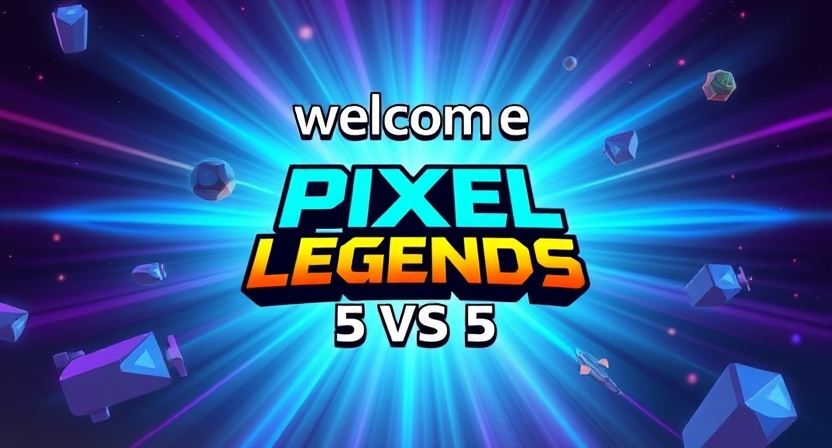
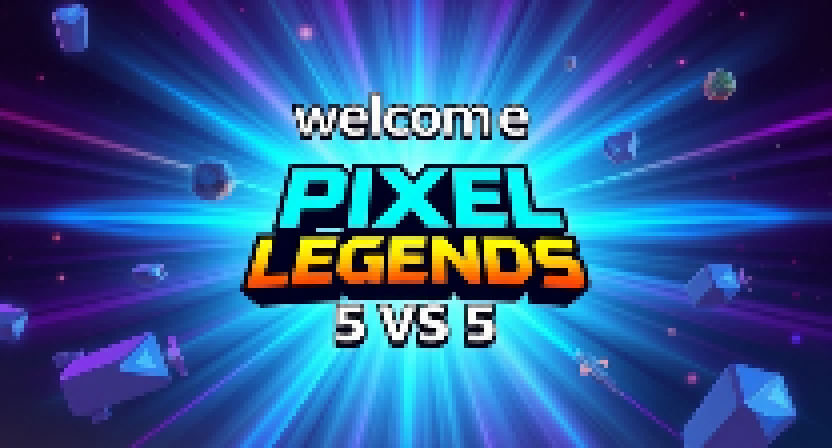
more pixels and null check error text fields

diff --git a/lib/UI/components/text_input_component.dart b/lib/UI/components/text_input_component.dart
@@ -1,0 +1,54 @@
+import 'dart:async';
+
+import 'package:flame/components.dart';
+import 'package:flame/events.dart';
+import 'package:flame/flame.dart';
+import 'package:flutter/material.dart';
+import 'package:pixel_legends_5_vs_5/UI/components/assets.dart';
+import 'package:pixel_legends_5_vs_5/utils/keyboard_utils.dart';
+import 'package:pixel_legends_5_vs_5/utils/static_params.dart';
+
+class TextInputComponent extends PositionComponent with TapCallbacks {
+  TextInputComponent({
+    required Vector2 position,
+    required this.label,
+  }) : super(
+          position: position,
+          size: Vector2(200, 50),
+        );
+
+  final String label;
+
+  @override
+  void onTapUp(TapUpEvent event) {
+    final keyboardUtils = KeyboardUtils(context!);
+    keyboardUtils.openKeyboard();
+    super.onTapUp(event);
+  }
+
+  @override
+  FutureOr<void> onLoad() async {
+    final inputBgImage = await Flame.images.load(inputBg.path);
+    final inputBgSprite = SpriteComponent.fromImage(
+      inputBgImage,
+      size: Vector2(200, 50),
+      position: position,
+    );
+
+    final textBox = TextBoxComponent(
+      text: label,
+      textRenderer: TextPaint(
+        style: const TextStyle(
+          color: Colors.black,
+          fontSize: 17,
+        ),
+      ),
+      size: Vector2(170, 50),
+      position: Vector2(15, 7),
+    );
+
+    inputBgSprite.add(textBox);
+    findGame()!.world.add(inputBgSprite);
+    return super.onLoad();
+  }
+}

diff --git a/lib/UI/login_screen/login_screen.dart b/lib/UI/login_screen/login_screen.dart
@@ -1,17 +1,34 @@
 import 'package:flame/components.dart';
 import 'package:flame/flame.dart';
+import 'package:flame/game.dart';
 import 'package:pixel_legends_5_vs_5/UI/components/assets.dart';
+import 'package:pixel_legends_5_vs_5/UI/components/text_input_component.dart';
 import 'package:pixel_legends_5_vs_5/utils/static_params.dart';
 
-class LoginScreen extends Component {
+class LoginScreen extends Component with HasGameRef<FlameGame> {
   @override
   Future<void> onLoad() async {
     super.onLoad();
+
     final loginScreenBgImage = await Flame.images.load(loginScreenBg.path);
-    final loginScreenBgSprite = SpriteComponent.fromImage(loginScreenBgImage,
-        size: size,
-        position: loginScreenBg.getPositionFitCover(size),
-        scale: loginScreenBg.getScaleFitCover(size));
+    final loginScreenBgSprite = SpriteComponent.fromImage(
+      loginScreenBgImage,
+      size: size,
+      position: loginScreenBg.getPositionFitCover(size),
+      scale: loginScreenBg.getScaleFitCover(size),
+    );
     add(loginScreenBgSprite);
+
+    final loginInput = TextInputComponent(
+      position: Vector2(size!.x - 300, size!.y * 0.3),
+      label: 'Username',
+    );
+    add(loginInput);
+
+    final passwordInput = TextInputComponent(
+      position: Vector2(size!.x - 300, size!.y * 0.5),
+      label: 'Password',
+    );
+    add(passwordInput);
   }
 }

diff --git a/lib/utils/keyboard_utils.dart b/lib/utils/keyboard_utils.dart
@@ -1,0 +1,47 @@
+import 'dart:async';
+
+import 'package:flutter/material.dart';
+
+class KeyboardUtils {
+  KeyboardUtils(this.context);
+  BuildContext context;
+
+  final TextEditingController textController = TextEditingController();
+
+  final FocusNode focusNode = FocusNode();
+
+  VoidCallback? onClose;
+
+  Stream<String> get onTextChanged => textController.textChanges;
+
+  void openKeyboard() {
+    FocusScope.of(context).requestFocus(focusNode);
+  }
+
+  void closeKeyboard() {
+    FocusScope.of(context).unfocus();
+    if (onClose != null) onClose!();
+  }
+
+  void dispose() {
+    textController.dispose();
+    focusNode.dispose();
+  }
+}
+
+extension _TextEditingControllerExtension on TextEditingController {
+  Stream<String> get textChanges {
+    final controller = this;
+    final streamController = StreamController<String>();
+
+    controller.addListener(() {
+      streamController.add(controller.text);
+    });
+
+    streamController.onCancel = () {
+      streamController.close();
+    };
+
+    return streamController.stream;
+  }
+}

diff --git a/lib/UI/components/asset_model.dart b/lib/UI/components/asset_model.dart
@@ -1,3 +1,5 @@
+import 'dart:math';
+
 import 'package:flame/game.dart';
 
 class AssetModel {
@@ -13,7 +15,8 @@ class AssetModel {
 
   Vector2? getScaleFitCover(Vector2? size) {
     if (size == null) return null;
-    return Vector2(size.x / width, size.x / width);
+    final coefficient = max(size.x / width, size.y / height);
+    return Vector2(coefficient, coefficient);
   }
 
   Vector2? getPositionFitCover(

diff --git a/lib/utils/static_params.dart b/lib/utils/static_params.dart
@@ -1,7 +1,10 @@
 import 'package:flame/game.dart';
+import 'package:flutter/cupertino.dart';
 
 Vector2? size;
+BuildContext? context;
 
 initializeConstants(FlameGame game) {
   size = game.size;
+  context = game.buildContext;
 }

diff --git a/lib/UI/components/assets.dart b/lib/UI/components/assets.dart
@@ -11,3 +11,9 @@ const loginScreenBg = AssetModel(
   width: 832,
   height: 448,
 );
+
+const inputBg = AssetModel(
+  path: 'input_bg.png',
+  width: 832,
+  height: 448,
+);
